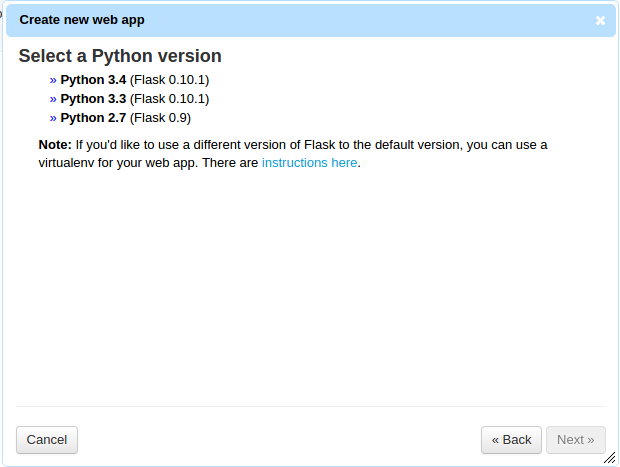
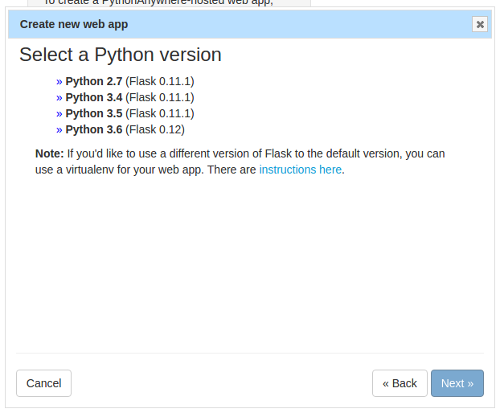
Rework for interface changes since the original version

Changed region(s): [[0.0, 0.0, 1.0, 1.0]]

diff --git a/tutorial-1.md b/tutorial-1.md
@@ -20,7 +20,7 @@ Once you've signed up, you'll be taken to the "Consoles" tab:
 
 <img width="500" src="/static/images/flask-tutorial-signed-in.png">
 
-You can dismiss the green welcome section at the top (use the "X" in its top right) -- everything there is accessible later from the "Help" link if you want to see it.
+You can dismiss the green welcome section at the top (use the "X" in its top right) -- everything there is accessible later from the "Help" link if you want to see it.  I do recommend you check your email and confirm your email address, though -- otherwise if you forget your password later, you won't be able to reset it.
 
 Now, click on the "Web" tab, and you'll be taken to a page where you can create a website:
 
@@ -36,8 +36,6 @@ If you decided to go for a paid account (thanks :-), then it will be a bit diffe
 
 What we're doing on this page is specifying the host name in the URL that people will enter to see your website.  Free accounts can have one website, and it must be at *yourusername*`.pythonanywhere.com`.  Paid accounts have the option of using their own custom host names in their URLs.
 
-Once a website has been created, it's on that particular host name forever.  There are easy ways to create new websites that use the same code as an existing one, so if you create a website at *yourusername*`.pythonanywhere.com` and then later want to move it to `www.yourowndomain.com` then that's pretty simple.
-
 For now, we'll stick to the free option.  If you have a free account, just click the "Next" button, and if you have a paid one, click the checkbox next to the *yourusername*`.pythonanywhere.com`, then click "Next".  This will take you on to the next page in the wizard.
 
 <img width="500" src="/static/images/flask-tutorial-create-web-app-choose-framework.png">
@@ -46,7 +44,7 @@ This page is where we select the web framework we want to use.  This tutorial is
 
 <img width="500" src="/static/images/flask-tutorial-create-web-app-choose-python-version.png">
 
-PythonAnywhere has various versions of Python installed, and each version has its associated version of Flask.  You can use different Flask versions to the ones we supply by default, but it's a little more tricky (you need to use a thing called a *virtualenv*), so for this tutorial we'll create a site using Python 3.4, with the default Flask version.  Click the option, and you'll be taken to the next page:
+PythonAnywhere has various versions of Python installed, and each version has its associated version of Flask.  You can use different Flask versions to the ones we supply by default, but it's a little more tricky (you need to use a thing called a *virtualenv*), so for this tutorial we'll create a site using Python 3.6, with the default Flask version.  Click the option, and you'll be taken to the next page:
 
 <img width="500" src="/static/images/flask-tutorial-create-web-app-choose-location.png">
 
@@ -58,7 +56,9 @@ Once you're sure you're OK with the filename, click "Next".  There will be a bri
 
 <img width="500" src="/static/images/flask-tutorial-web-app-page-initial-site.png">
 
-You can see that the host name for the site is on the left-hand side, along with the "Add a new web app" button.  If you had multiple websites in your PythonAnywhere account, they would appear there too. But the one that's currently selected is the one you just created, and if you scroll down a bit you can see all of its settings.  We'll ignore most of these for the moment.
+You can see that the host name for the site is on the left-hand side, along with the "Add a new web app" button.  If you had multiple websites in your PythonAnywhere account, they would appear there too. But the one that's currently selected is the one you just created, and if you scroll down a bit you can see all of its settings.  We'll ignore most of these for the moment, but one that is worth noting is the "Best before date" section.
+
+If you have a paid account, you won't see that -- it only applies to free accounts.  But if you have a free account, you'll see something saying that your site will be disabled on a date in three months' time.  Don't worry!  You can keep a free site up and running on PythonAnywhere for as long as you want, without having to pay us a penny.  But we do ask you to log in every now and then and click the "Run until 3 months from today" button, just so that we know you're still interested in keeping it running.
 
 Before we do any coding, let's check out the site that PythonAnywhere has generated for us by default.  Right-click the host name, just after the words "Configuration for", and select the "Open in new tab" option; this will (of course) open your site in a new tab, which is useful when you're developing -- you can keep the site open in one tab and the code and other stuff in another, so it's easier to check out the effects of the changes you make.
 
@@ -66,7 +66,7 @@ Here's what it should look like.
 
 <img width="500" src="/static/images/flask-tutorial-initial-site-content.png">
 
-OK, it's pretty simple, but it's a start.  Let's take a look at the code!  Go back to the tab showing the website configuration (keeping the one showing your site open), and click on the directory titled "Source code" under the "Code" section:
+OK, it's pretty simple, but it's a start.  Let's take a look at the code!  Go back to the tab showing the website configuration (keeping the one showing your site open), and click on the "Go to directory" link next to the "Source code" bit in the "Code" section:
 
 <img width="500" src="/static/images/flask-tutorial-source-code-link.png">
 
@@ -211,7 +211,7 @@ So let's add some code to handle the "/wibble" version.  Just put this at the bo
 
 Click the "Save" button again, then the reload button, and check out your site on the tab you kept open earlier.  Now, both `http://`*yourusername*`.pythonanywhere.com/` and `http://`*yourusername*`.pythonanywhere.com/wibble` will work, and will return different text.
 
-So that was our first change, but it was pretty pointless.  Let's use git to undo it.  Click on the PythonAnywhere logo at the top right of the editor page, and you'll be taken to the main PythonAnywhere "Consoles" list.  You'll see that under "Your consoles" there's a thing called something like "Bash console 1904962".
+So that was our first change, but it was pretty pointless.  Let's use git to undo it.  Click on the PythonAnywhere logo at the top right of the editor page, and you'll be taken to the main PythonAnywhere "Consoles" list.  You'll see that under "Your consoles" there's a thing called something like "Bash console 5676757".
 
 <img width="500" src="/static/images/flask-tutorial-consoles-list.png">
 
@@ -252,7 +252,7 @@ A web app in Flask, like most frameworks, consists of two kinds of file: source 
 
 Our website is just going to be a bunch of comments, one after another, with a text box at the bottom so that people can add new ones.  So we'll start off by writing a template that displays some dummy data, and a view in the Python code that renders (that is, displays) the template.
 
-The template first.  Click on the back button to get to your web app's source code directory listing page.  Templates, by convention, go in a subdirectory of your source code directory, inventively called `templates`.  So we can create that by typing "templates" into the "Enter new directory name" input near the top of the page, then clicking the "New" button next to it.  That will take us to the directory listing for the new directory, which of course is empty.  We'll create our template file in there; type "main_page.html" into the "Enter new file name" input, and click the "New" button next to it.  This will take you to the editor, which will of course be empty.
+The template first.  Click on the back button to get to your web app's source code directory listing page.  Templates, by convention, go in a subdirectory of your source code directory, inventively called `templates`.  So we can create that by typing "templates" into the "Enter new directory name" input near the top of the page, then clicking the "New directory" button next to it.  That will take us to the directory listing for the new directory, which of course is empty.  We'll create our template file in there; type "main_page.html" into the "Enter new file name" input, and click the "New file" button next to it.  This will take you to the editor, which will be empty.
 
 Type the following HTML into the editor:
 
@@ -585,7 +585,7 @@ Once we've extracted the comment contents from the request, we add it to the lis
 
         return redirect(url_for('index'))
 
-We just need to make one more change in our code: we've used a bunch of new Flask functions and so we need to import them.  Change
+We just need to make one more change in our code: we've used a couple of new Flask functions and so we need to import them.  Change
 
     from flask import Flask, render_template
 
@@ -703,7 +703,7 @@ So, if everything's working OK, it's probably time to commit the changes.  Over 
 
     no changes added to commit (use "git add" and/or "git commit -a")
 
-This time, just for a change, let's add our files to the list of files to commit, and commit them in one go.  This doesn't work if you've created a new file, but as we've only modified existing ones, it's an option.  We just add an `a` before the `m` in the `git commit` command to say "add files":
+This time, just for a change, let's add our files to the list of files to commit and commit them in one go.  This doesn't work if you've created a new file, but as we've only modified existing ones, it's an option.  We just add an `a` before the `m` in the `git commit` command to say "add files":
 
     git commit -am"Replaced dummy comments with some in-memory storage"
 
@@ -730,7 +730,7 @@ There are many database programs used for web apps; some examples are:
 * PostgreSQL (for historical reasons, normally just called Postgres), which runs as a server, like MySQL, and is better with larger datasets.  Growing in popularity, but needs a bit more server power to run.
 * MongoDB, which allows you to store your data in a less-structured way than SQL databases like the previous three.  Also server-based.  New, slightly oddball -- the hipster option.
 
-SQLite is pretty slow on PythonAnywhere, and doesn't scale well for larger sites anyway.  Postgres is a paid feature on PythonAnywhere because of its larger server power requirements, and we don't have built-in support for MongoDB.  So we're going to use MySQL.
+SQLite is pretty slow on PythonAnywhere, and doesn't scale well for larger sites anyway.  Postgres is a paid feature on PythonAnywhere because of its larger server power requirements, and we don't have built-in support for MongoDB.  So we're going to use MySQL, which you can use from a free PythonAnywhere account.
 
 One convenient thing about modern database programming, however, is that to a certain degree you don't need to worry about which database you're actually using.  There are database interface libraries called Object-Relational Mappers (ORMs), which make it possible (most of the time) to use the same code regardless of the underlying database.  We're going to use one called SQLAlchemy, which works well with Flask.
 
@@ -738,11 +738,11 @@ Right, enough background.  Let's create a MySQL database!  In your tab where you
 
 <img width="500" src="/static/images/flask-tutorial-databases-tab-empty.png">
 
-At the top, under "Connecting", you'll see the details you'll need to connect to the MySQL server associated with your account.  Next is a list of MySQL databases, which, as you haven't created any, is of course empty.  And at the bottom there's a space to enter a MySQL password.  The password is needed to connect to the MySQL server so that other people can't connect to your one, and initially it's unset.  Enter a new password here; make it something different to the one you use to log in to PythonAnywhere, because this database password will have to exist in your Python code (so that it can connect to your server), so it's more secure to use a different one.  Make a note of the password you've chosen, and once you've entered it twice in the appropriate fields, click the "Set MySQL password" button.  You'll come back to the "Databases" tab, but now some extra options will have appeared:
+The first thing you need to do to set up a MySQL database is specify the password you want to use when accessing it.  Enter a new password here; make it something different to the one you use to log in to PythonAnywhere, because this database password will have to exist in your Python code (so that it can connect to your server), so it's more secure to use a different one.  Make a note of the password you've chosen, and once you've entered it twice in the appropriate fields, click the "Initialize MySQL" button.  Wait for a few moments for your database to be set up, and you'll come back to the "Databases" tab, but now some extra options will have appeared:
 
 <img width="500" src="/static/images/flask-tutorial-databases-tab-after-set-password.png">
 
-So now we have a database called *yourusername*`$default`, and an option to create a database.  In general, it's good practice to have a separate database for each website you're working on to keep everything nicely separated.  Go to the "Create database" section in the middle of the page, and create one, giving it the name "comments":
+At the top, under "Connecting", you'll see the details you'll need to connect to the MySQL server associated with your account.  Next is a list of MySQL databases; one was created for you called *yourusername*`$default`, and there is also an option to create further databases.  In general, it's good practice to have a separate database for each website you're working on to keep everything nicely separated.  Go to the "Create database" section in the middle of the page, and create one, giving it the name "comments":
 
 <img width="500" src="/static/images/flask-tutorial-databases-tab-create-database.png">
 
@@ -767,6 +767,7 @@ OK, so now we have a database.  Let's add some code to connect to it!  Leave the
     )
     app.config["SQLALCHEMY_DATABASE_URI"] = SQLALCHEMY_DATABASE_URI
     app.config["SQLALCHEMY_POOL_RECYCLE"] = 299
+    app.config["SQLALCHEMY_TRACK_MODIFICATIONS"] = False
 
 You need to change the values we set for `username`, `hostname` and `databasename` to the values from the "Databases" tab, and change the `password` to the one you set there earlier.  (All of these are without the `<>` angle brackets, of course -- those are just there in the code above to highlight things you need to change.)
 
@@ -776,13 +777,15 @@ The third sets an importand database connection configuration parameter, which y
 
 *Sidebar: connection timeouts.  Opening a connection from your website code to a MySQL server takes a small amount of time.  If you opened one for every hit on your website, it would be slightly slower.  If your site was really busy, the aggregate of all of the small amounts of time opening connections could add up to quite a slowdown.  To avoid this, SQLAlchemy operates a "connection pool".  It keeps a set of connections to the database, and re-uses them.  When you want a connection, it gives you one from the pool, creating a new one if the pool is empty, and when you're done with it, the connection is returned to the pool for future reuse.  However, in order to stop people from hogging database connections, MySQL servers close unused connections after a particular amount of time.  On PythonAnywhere, this timeout is set to 300 seconds.  If your site is busy and your connections are always busy, this doesn't matter.  But if it's not, a connection in the pool might be closed by the server because it wasn't being used.  The `SQLALCHEMY_POOL_RECYCLE` variable is set to 299 to tell SQLAlchemy that it should throw away connections that haven't been used for 299 seconds, so that it doesn't give them to you and cause your code to crash because it's trying to use a connection that has already been closed by the server.*
 
+The fourth line disables a SQLAlchemy feature that we're not going to be using -- explicitly saying that we don't want to use it stops us from getting confusing warning messages later on.
+
 So that's the code that configures our database connection; now we need some code to actually connect to it!  Put this just after the code you just added:
 
     db = SQLAlchemy(app)
 
 This simply creates a SQLAlchemy object using the connections we put into the Flask app's config.  We need to add an extra import statement to the start of our code to make this work, just after the other import that imports stuff from Flask:
 
-    from flask.ext.sqlalchemy import SQLAlchemy
+    from flask_sqlalchemy import SQLAlchemy
 
 Right, we've added some code to connect to the database.  Let's sanity-check it and make sure we haven't made any silly typos; hit the button to reload your website, and refresh the page in the other tab where you're viewing it.  If all is OK, you should get a site that behaves just like it did before.  If there's a problem, Flask should tell you what it is.
 
@@ -799,7 +802,7 @@ Next, we need to add a *model*.  A model is a Python class that specifies the st
 
 An SQL database can seen as something similar to a spreadsheet; you have a number of *tables*, just like a spreadsheet has a number of sheets inside it.  Each table can be thought of as a place to store a specific kind of thing; on the Python side, each one would be represented by a separate class.  We have only one kind of thing to store, so we are going to have just one table, called "comments".  Each table is formed of rows and columns.  Each row corresponds to an entry in the database -- in our simple example, each comment would be a row.  On the Python side, this basically means one row per object stored.  The columns are the attributes of the class, and are pretty much fixed; for our database, we're specifying two columns: an integer `id`, which we'll keep for housekeeping purposes later on, and a string `content`, which holds, of course, the contents of the comment.  If we wanted to add more stuff to comments in the future -- say, the author's name -- we'd need to add extra columns for those things.  (Changing the MySQL database structure to add more columns can be tricky; the process is called *migrating* the database.  I'll link to useful stuff about that at the end of this tutorial.)
 
-Now that we've defined our model, we need to get SQLAlchemy to create the database tables.  This is a one-off operation -- once we've created the database's structure, it's done.  Head over to the bash console we've been using so far for git stuff, and run `ipython3.4` to start a Python interpreter.
+Now that we've defined our model, we need to get SQLAlchemy to create the database tables.  This is a one-off operation -- once we've created the database's structure, it's done.  Save your Python file, then head over to the bash console we've been using so far for git stuff, and run `ipython3.6` to start a Python interpreter.
 
 Once it's running, you need to import the database manager from your code:
 
@@ -905,6 +908,4 @@ If you'd like to study further, and find out more about Flask, I recommend these
 
 If you're thinking of developing this app further and adding new stuff to the database, you'll need to learn about database migrations; [here are the docs](https://flask-migrate.readthedocs.org/en/latest/)
 
-If you think we should do a follow-up to this tutorial, just post a comment with your suggestion below :-)
-
-Thanks for reading!
+If you think we should do a follow-up to this tutorial, just post a comment with your suggestion below.  Thanks for reading!
